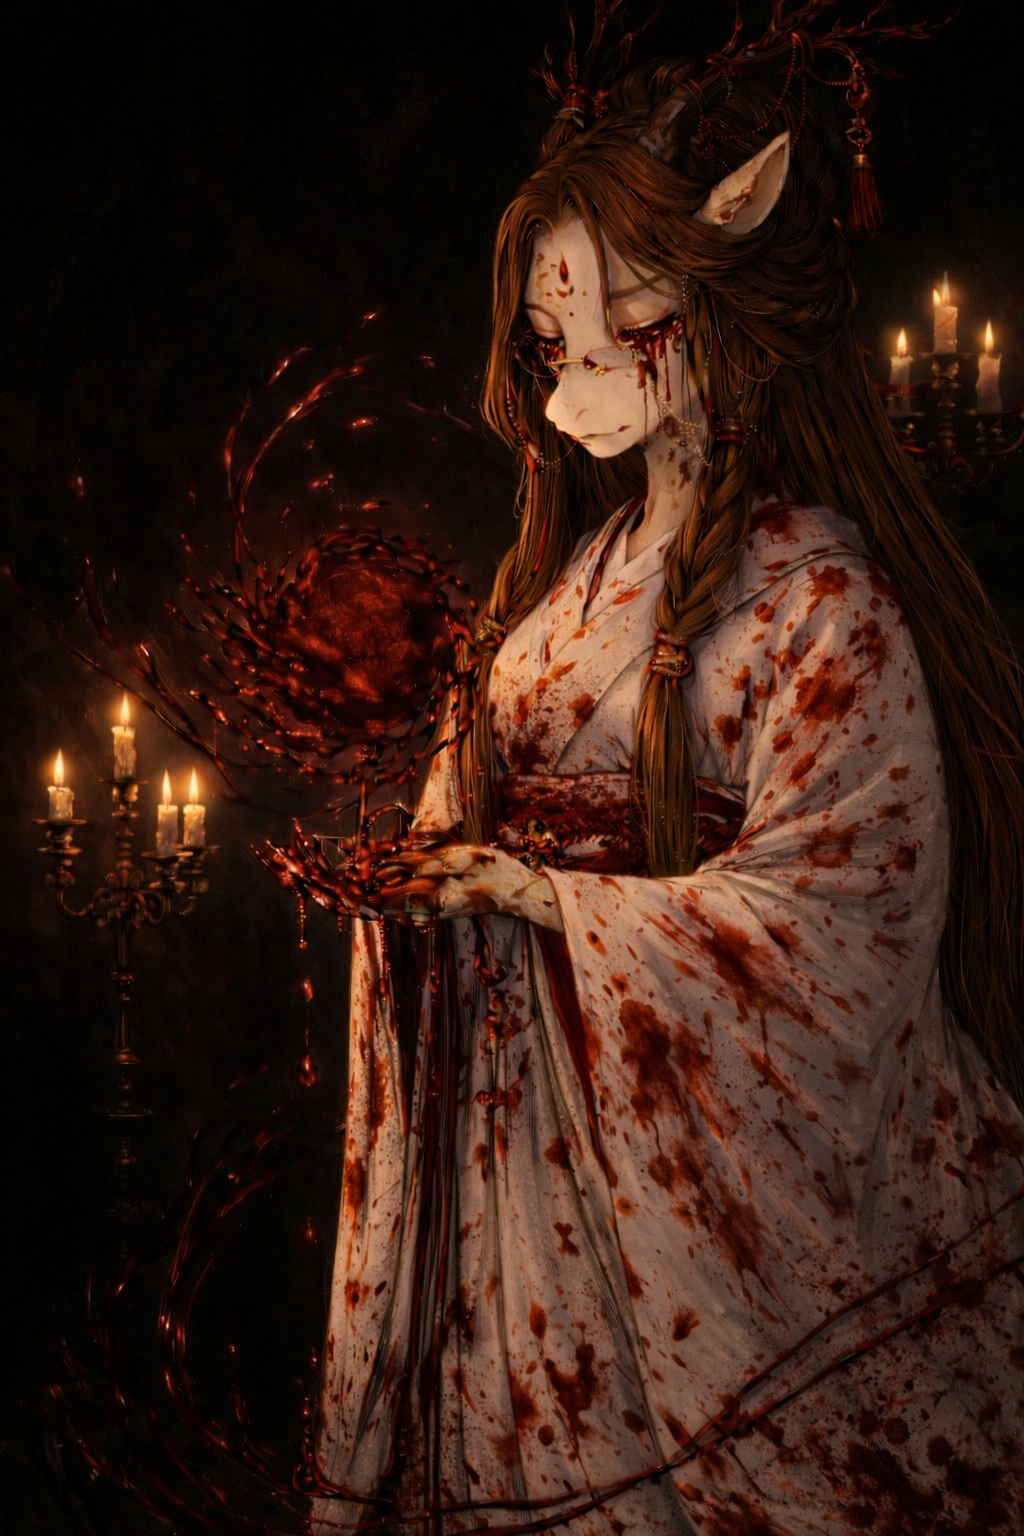
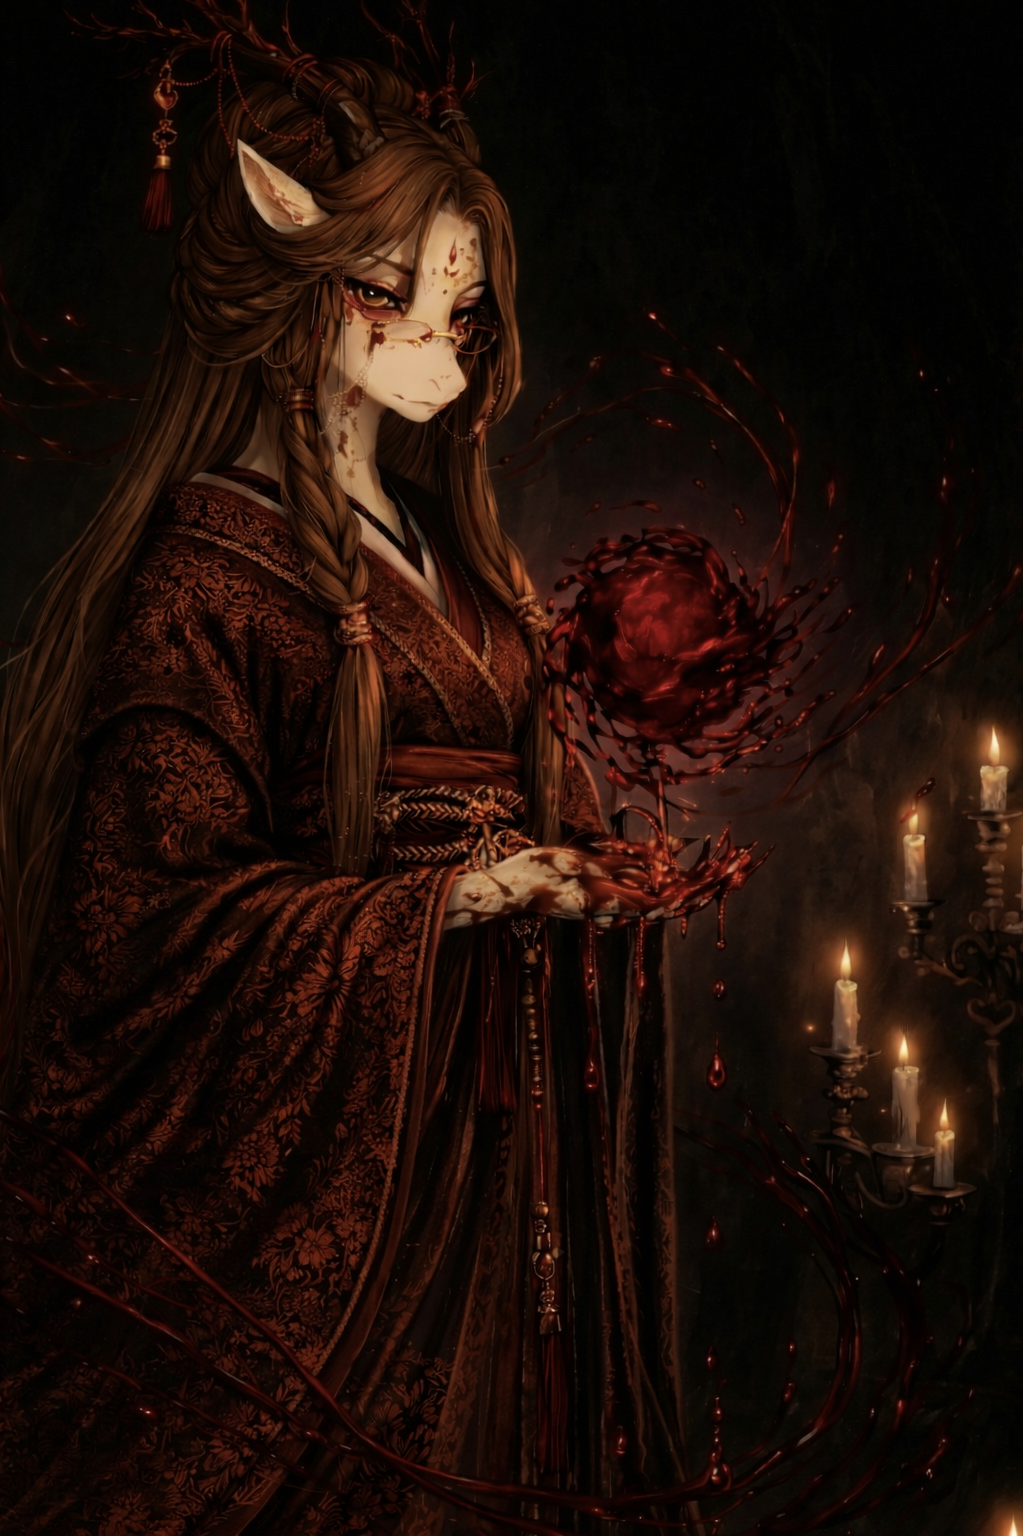
fix(yinhua): 残言自指杀改为单次伤害=N目标数; 称号赤色残花; 更新立绘; 残恨全局回合触发

diff --git a/nihilphile武将包/module/yinhua.js b/nihilphile武将包/module/yinhua.js
@@ -113,19 +113,15 @@
                 var N = targets ? targets.length : 0;
                 if (N <= 0) return;
                 player.logSkill("nihil_canyan");
-                game.log(player, "受到了残言的反噬");
-                for (var i = 0; i < N; i++) {
-                    if (!player.isAlive()) break;
-                    // 自指杀无视防具（藤甲/仁王盾），但可正常出闪
-                    player.addTempSkill("qinggang2");
-                    player.storage.qinggang2 = player.storage.qinggang2 || [];
-                    player.storage.qinggang2.push({ name: "sha" });
-                    await player.useCard(
-                        { name: "sha", isCard: true },
-                        player,
-                        false
-                    );
-                }
+                game.log(player, "受到了残言的反噬（伤害" + N + "）");
+                // 自指杀无视防具（藤甲/仁王盾），但可正常出闪
+                var card = { name: "sha", isCard: true };
+                player.addTempSkill("qinggang2");
+                player.storage.qinggang2 = player.storage.qinggang2 || [];
+                player.storage.qinggang2.push(card);
+                var evt = player.useCard(card, player, false);
+                evt.baseDamage = N;
+                await evt;
             },
         },
 
@@ -205,13 +201,13 @@
 
     var translates = {
         nihil_yinhua: "殷华",
-        nihil_yinhua_prefix: "决意之殇",
+        nihil_yinhua_prefix: "赤色残花",
 
         nihil_canyan: "残言",
         nihil_canyan_info:
             "出牌阶段，你可以将一张【杀】当作本回合未使用过的非延时锦囊牌使用。" +
             "此牌仅可指定与你距离不大于X的角色，" +
-            "且此牌结算后，每指定一名角色，视为你对自己使用一张杀。（X为你已损失体力值）",
+            "且此牌结算后，视为你对自己使用一张伤害等同于其指定目标数的杀。（X为你已损失体力值）",
 
         nihil_canyuan: "残恨",
         nihil_canyuan_info:
